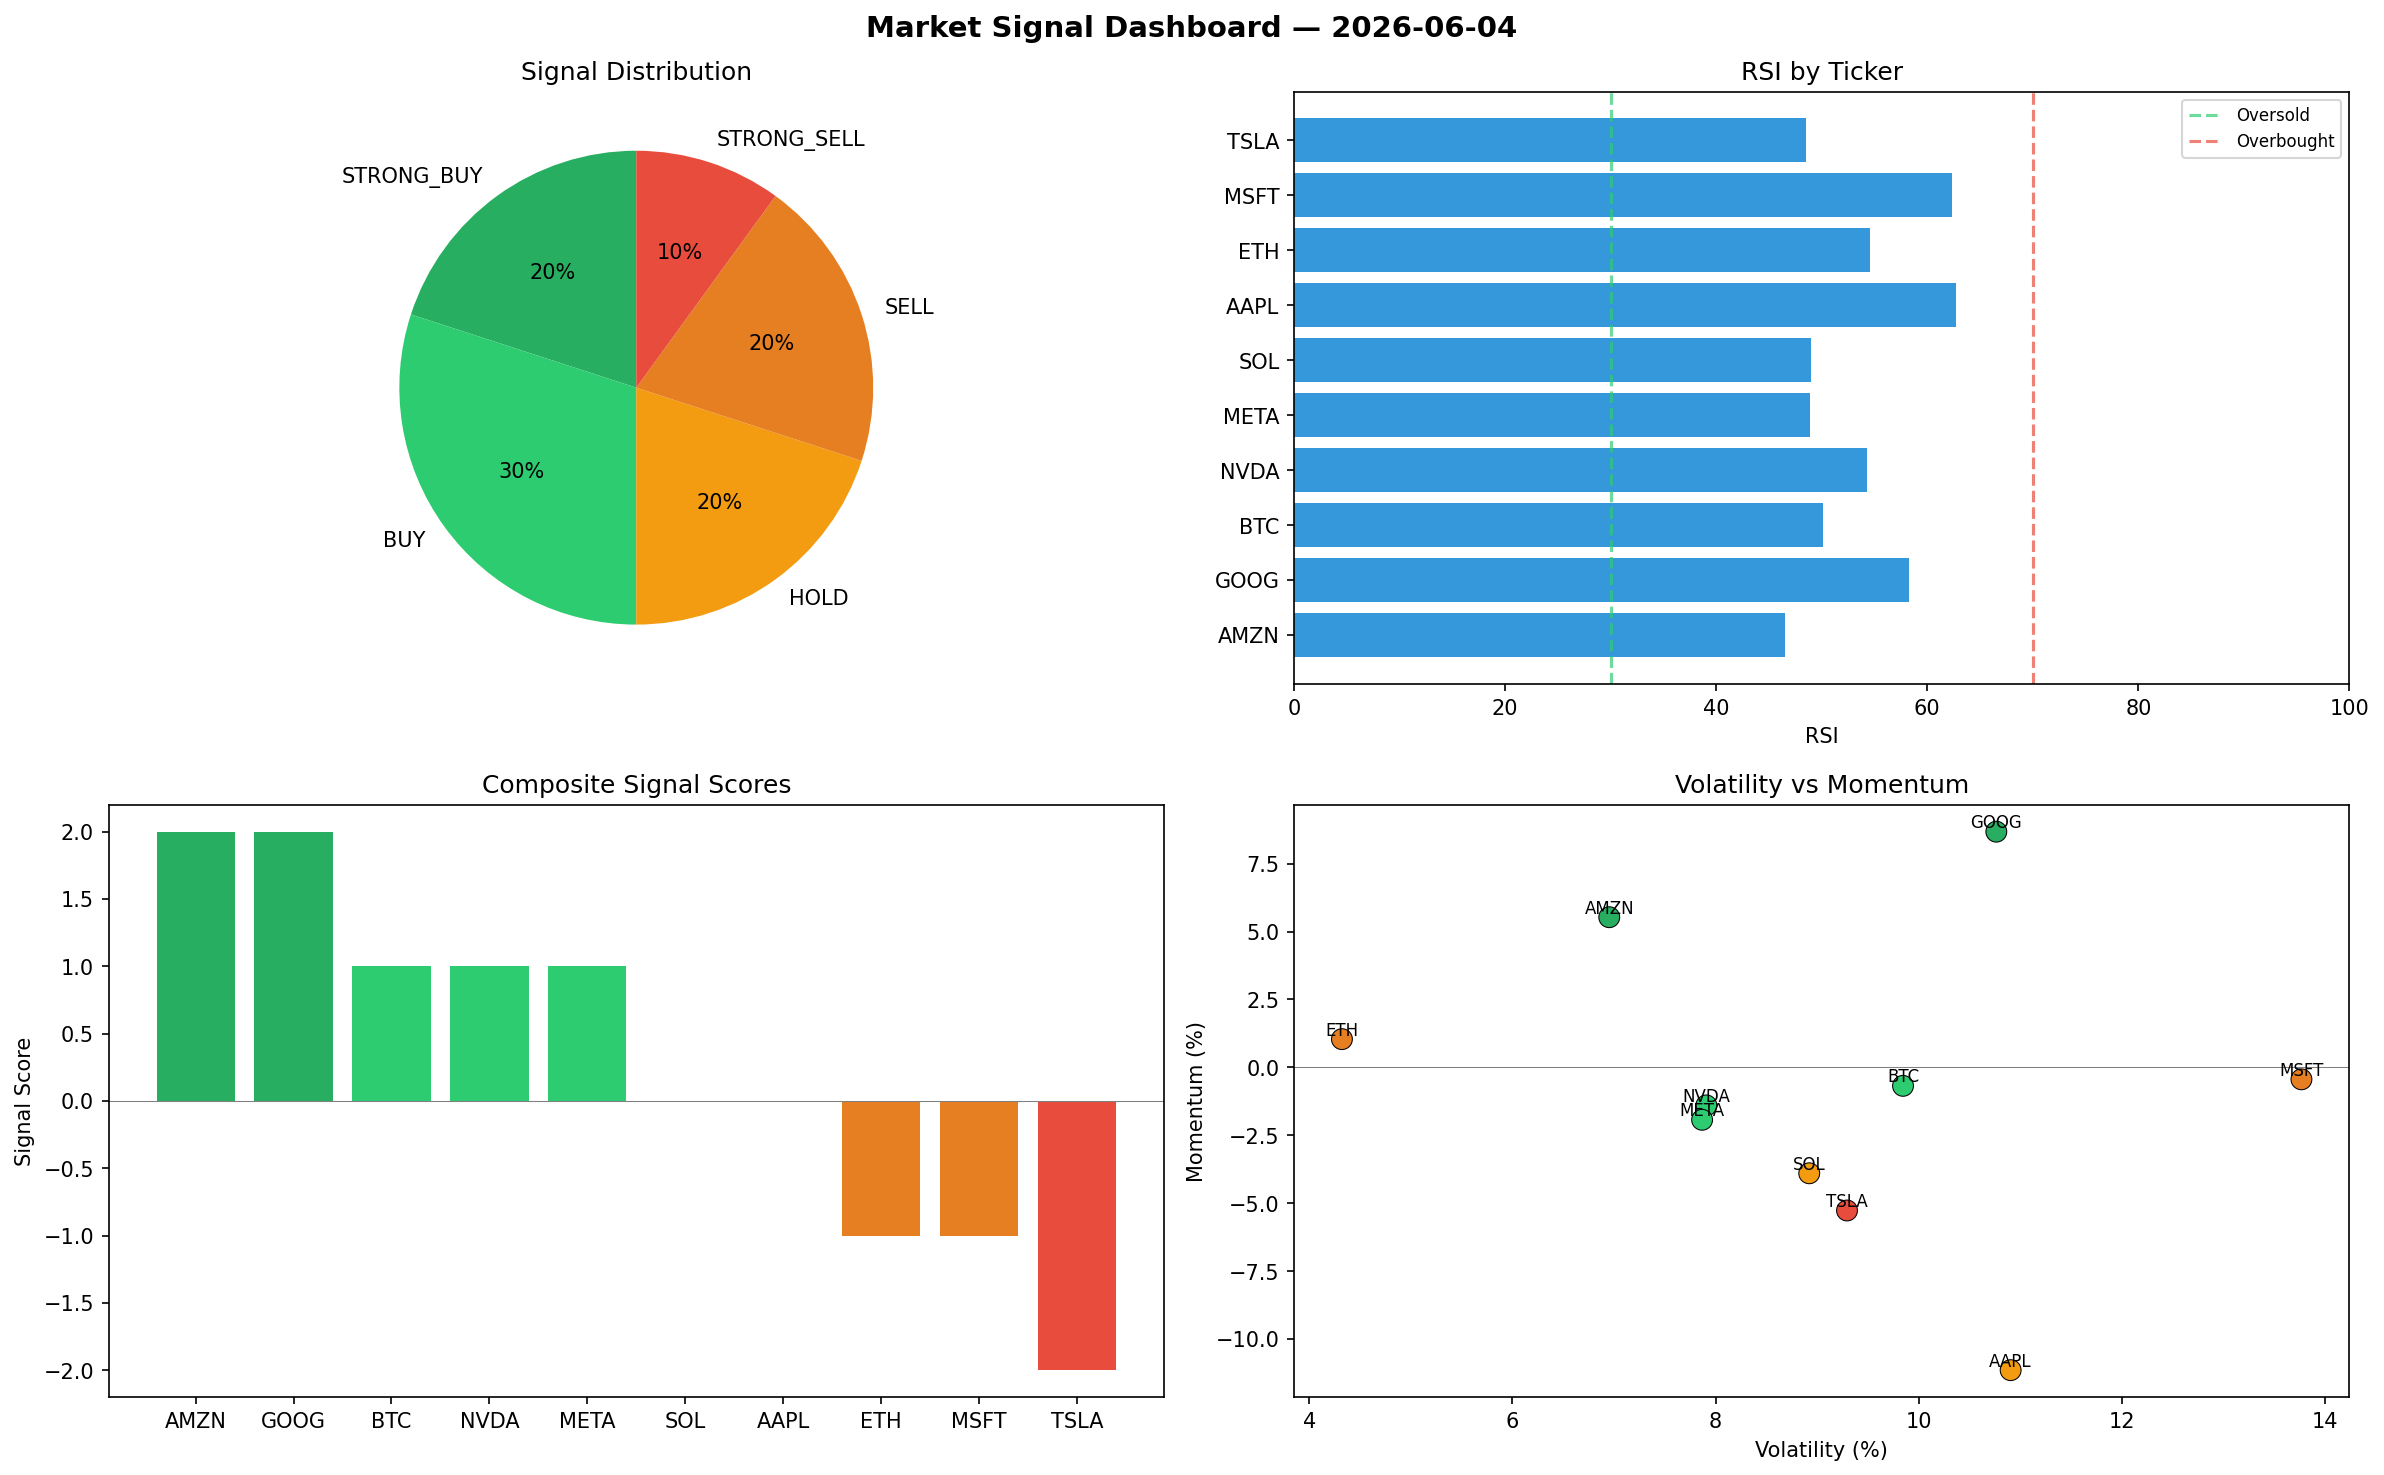
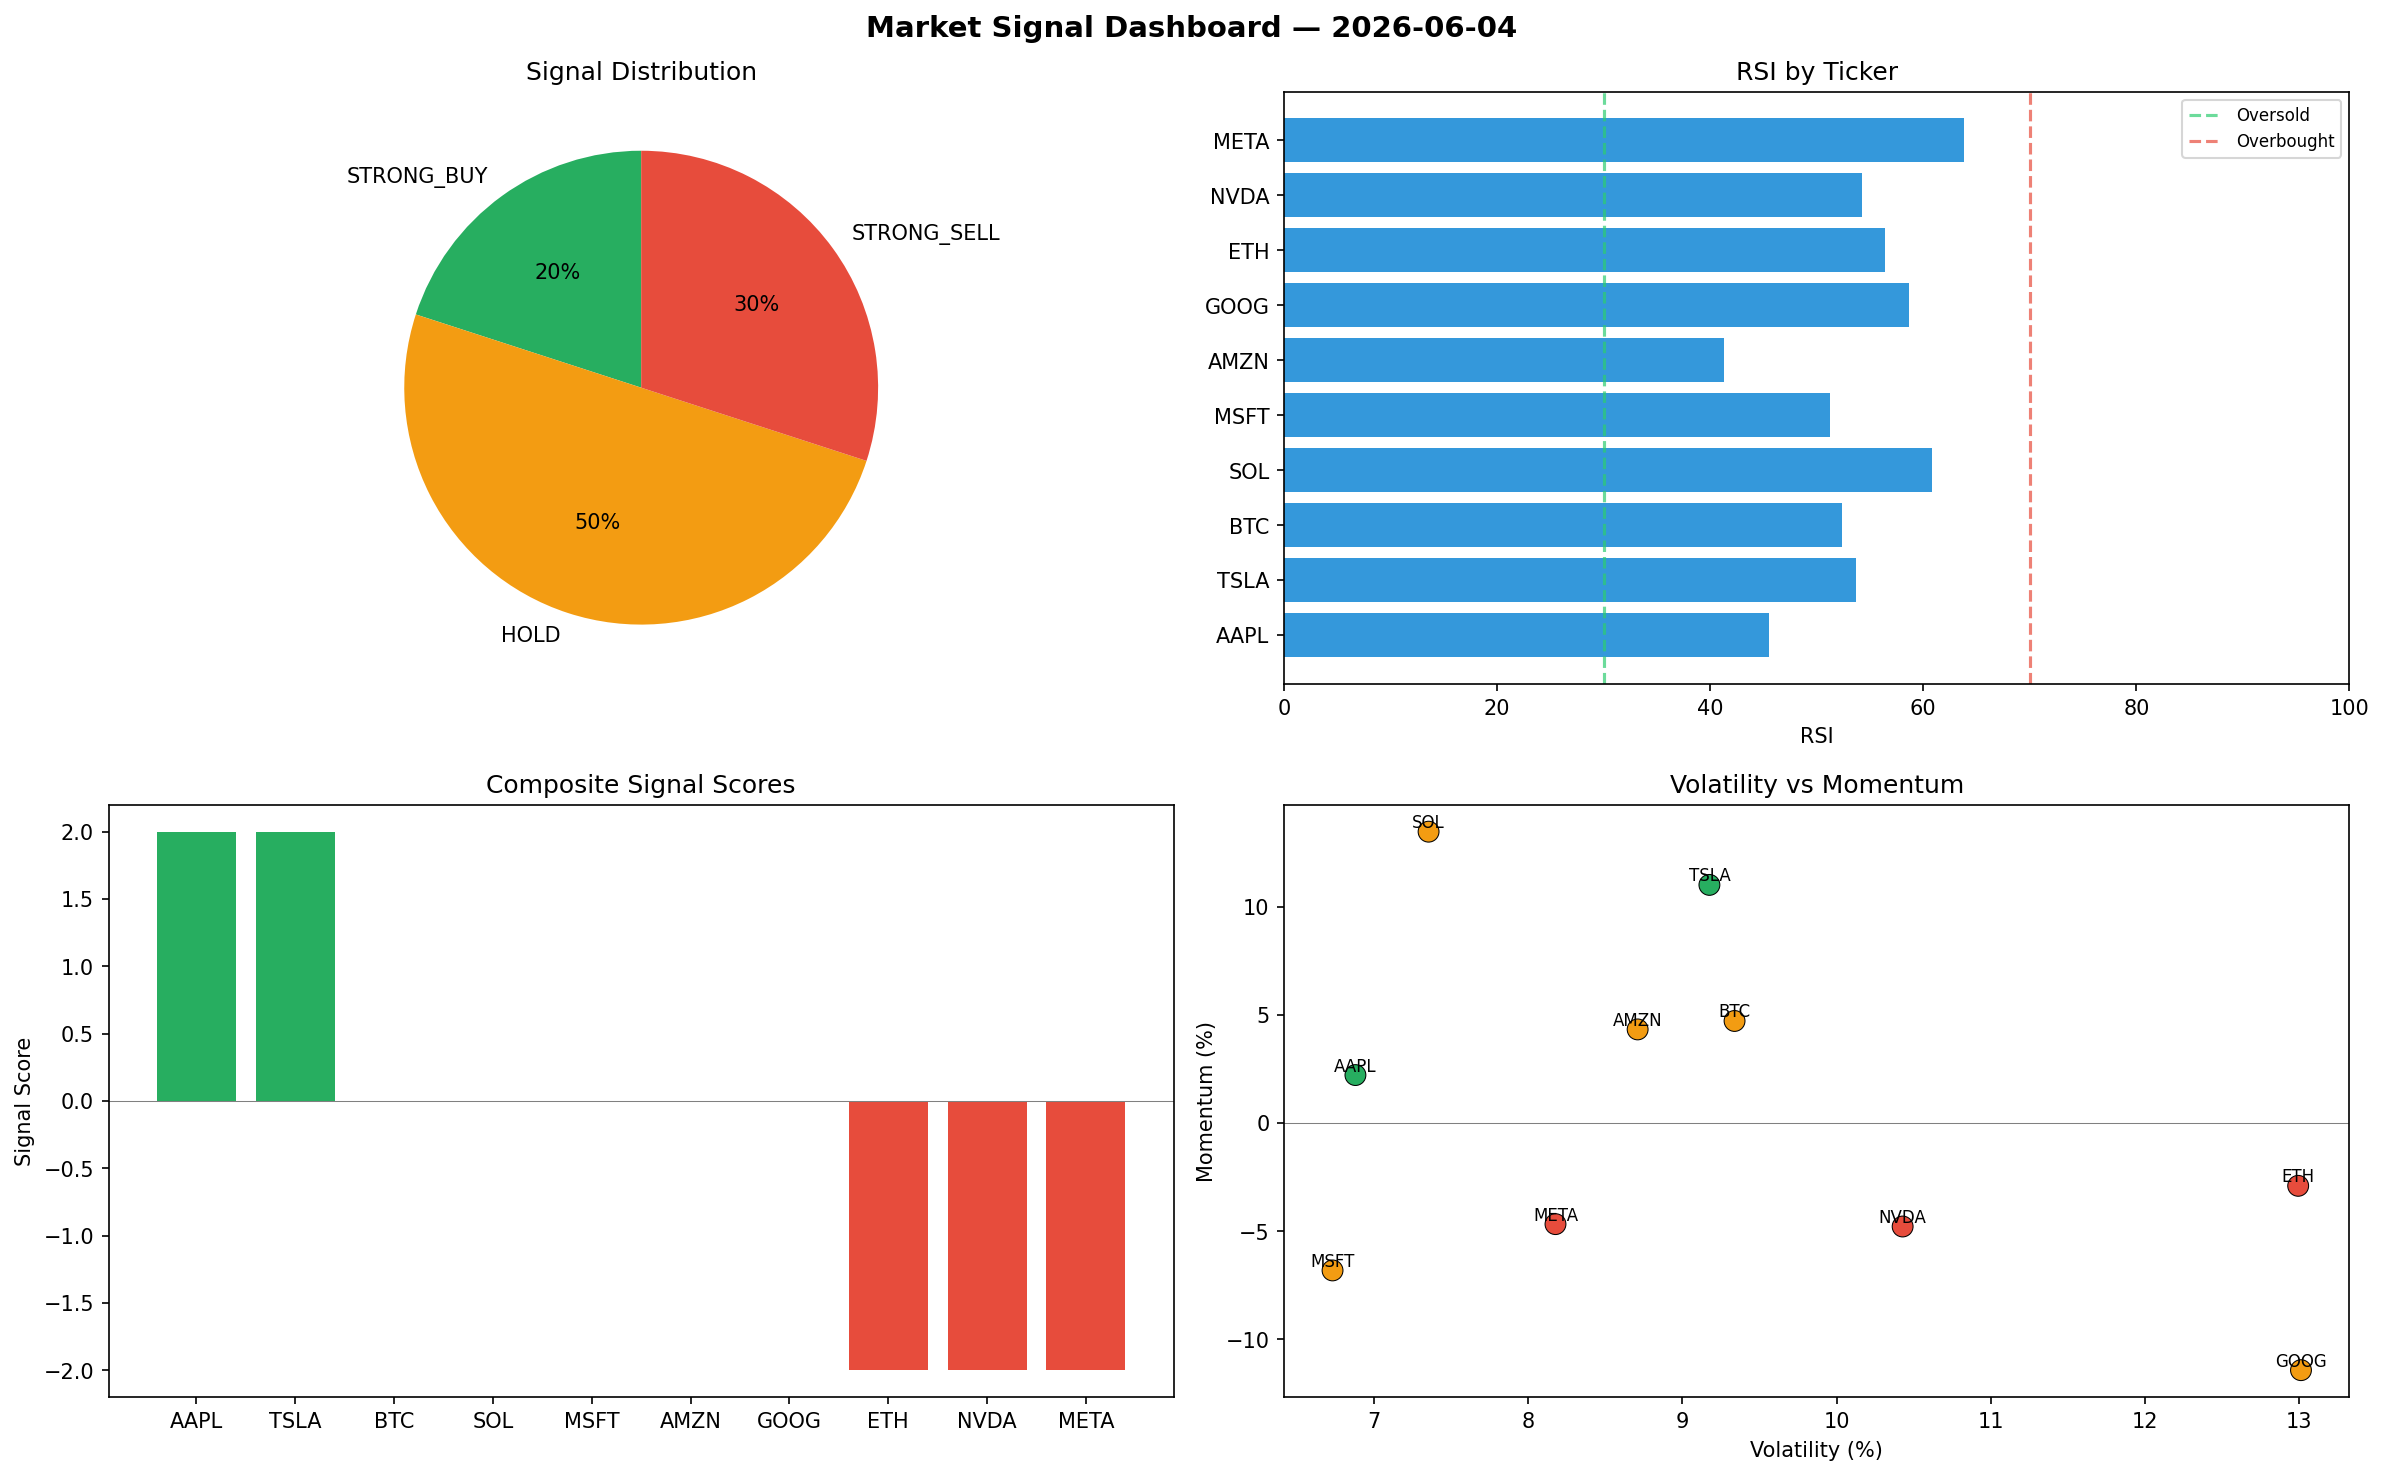
automated-bots: market signals 2026-06-04T11:28

diff --git a/logs/2026-06-04.md b/logs/2026-06-04.md
@@ -1,6 +1,6 @@
 # Market Signal Report — 2026-06-04
 
-**Run ID:** `7627591447` | **Buy:** 5 | **Sell:** 3 | **Hold:** 2
+**Run ID:** `786cc6b19c` | **Buy:** 2 | **Sell:** 3 | **Hold:** 5
 
 ![Dashboard](2026-06-04_dashboard.png)
 
@@ -8,28 +8,28 @@
 
 | Ticker | Price | Signal | Score | RSI | Momentum | Confidence |
 |--------|-------|--------|-------|-----|----------|------------|
-| AMZN | $1994.93 | **STRONG_BUY** | 2 | 46.48 | 0.0553 | 0.5 |
-| GOOG | $3887.76 | **STRONG_BUY** | 2 | 58.32 | 0.0868 | 0.5 |
-| BTC | $1530.8 | **BUY** | 1 | 50.12 | -0.0068 | 0.25 |
-| NVDA | $313.73 | **BUY** | 1 | 54.34 | -0.014 | 0.25 |
-| META | $2157.68 | **BUY** | 1 | 48.86 | -0.0193 | 0.25 |
-| SOL | $1601.16 | **HOLD** | 0 | 48.99 | -0.039 | 0.0 |
-| AAPL | $656.22 | **HOLD** | 0 | 62.7 | -0.1115 | 0.0 |
-| ETH | $3105.3 | **SELL** | -1 | 54.54 | 0.0104 | 0.25 |
-| MSFT | $2225.78 | **SELL** | -1 | 62.33 | -0.0044 | 0.25 |
-| TSLA | $1272.23 | **STRONG_SELL** | -2 | 48.47 | -0.0527 | 0.5 |
+| AAPL | $2305.43 | **STRONG_BUY** | 2 | 45.56 | 0.0221 | 0.5 |
+| TSLA | $1599.19 | **STRONG_BUY** | 2 | 53.64 | 0.11 | 0.5 |
+| BTC | $2083.86 | **HOLD** | 0 | 52.33 | 0.0471 | 0.0 |
+| SOL | $1061.98 | **HOLD** | 0 | 60.78 | 0.1346 | 0.0 |
+| MSFT | $2273.0 | **HOLD** | 0 | 51.24 | -0.0682 | 0.0 |
+| AMZN | $3941.76 | **HOLD** | 0 | 41.3 | 0.0432 | 0.0 |
+| GOOG | $2118.45 | **HOLD** | 0 | 58.67 | -0.1143 | 0.0 |
+| ETH | $606.53 | **STRONG_SELL** | -2 | 56.38 | -0.0291 | 0.5 |
+| NVDA | $684.78 | **STRONG_SELL** | -2 | 54.24 | -0.0479 | 0.5 |
+| META | $1879.26 | **STRONG_SELL** | -2 | 63.85 | -0.0468 | 0.5 |
 
 ## Delta vs Yesterday
 
 | Ticker | Today | Yesterday | Price Change | Signal Changed |
 |--------|-------|-----------|-------------|----------------|
-| AMZN | STRONG_BUY | BUY | 📉 -44.94% | ⚠ YES |
-| GOOG | STRONG_BUY | HOLD | 📈 139.8% | ⚠ YES |
-| BTC | BUY | STRONG_BUY | 📉 -53.54% | ⚠ YES |
-| NVDA | BUY | STRONG_BUY | 📉 -83.56% | ⚠ YES |
-| META | BUY | HOLD | 📉 -32.6% | ⚠ YES |
-| SOL | HOLD | STRONG_BUY | 📉 -34.39% | ⚠ YES |
-| AAPL | HOLD | STRONG_SELL | 📉 -84.04% | ⚠ YES |
-| ETH | SELL | SELL | 📈 44.89% | — |
-| MSFT | SELL | HOLD | 📉 -2.73% | ⚠ YES |
-| TSLA | STRONG_SELL | STRONG_BUY | 📈 44.93% | ⚠ YES |
+| AAPL | STRONG_BUY | STRONG_SELL | 📉 -43.92% | ⚠ YES |
+| TSLA | STRONG_BUY | STRONG_BUY | 📈 82.18% | — |
+| BTC | HOLD | STRONG_BUY | 📉 -36.76% | ⚠ YES |
+| SOL | HOLD | STRONG_BUY | 📉 -56.48% | ⚠ YES |
+| MSFT | HOLD | HOLD | 📉 -0.66% | — |
+| AMZN | HOLD | BUY | 📈 8.79% | ⚠ YES |
+| GOOG | HOLD | HOLD | 📈 30.67% | — |
+| ETH | STRONG_SELL | SELL | 📉 -71.7% | ⚠ YES |
+| NVDA | STRONG_SELL | STRONG_BUY | 📉 -64.12% | ⚠ YES |
+| META | STRONG_SELL | HOLD | 📉 -41.3% | ⚠ YES |
